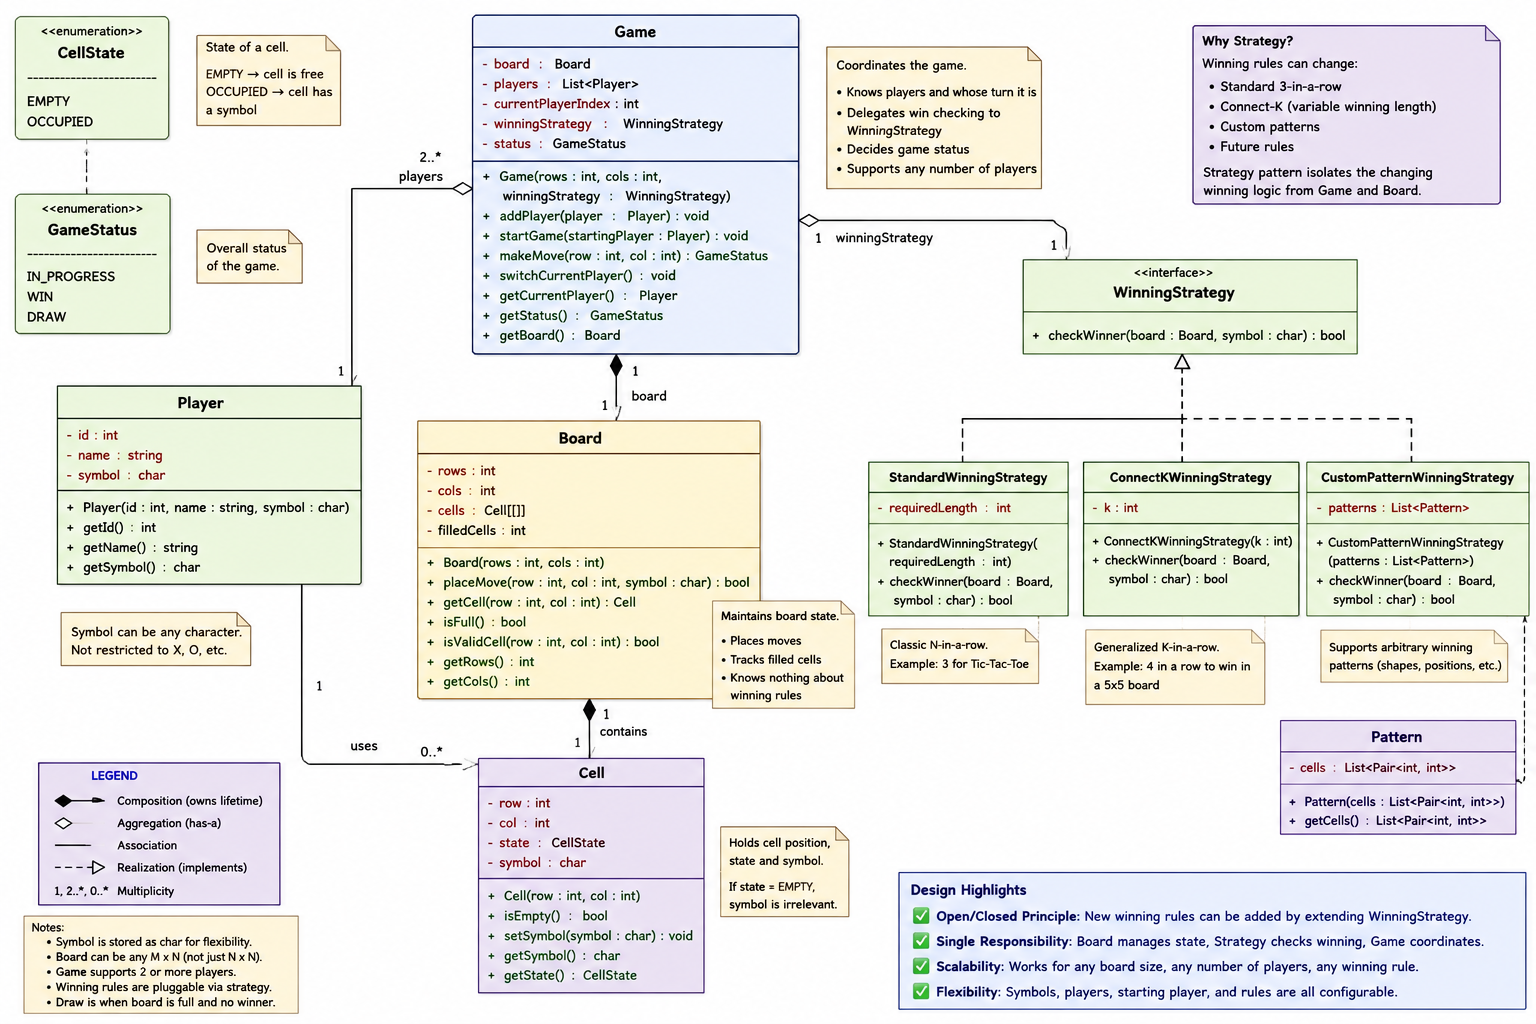
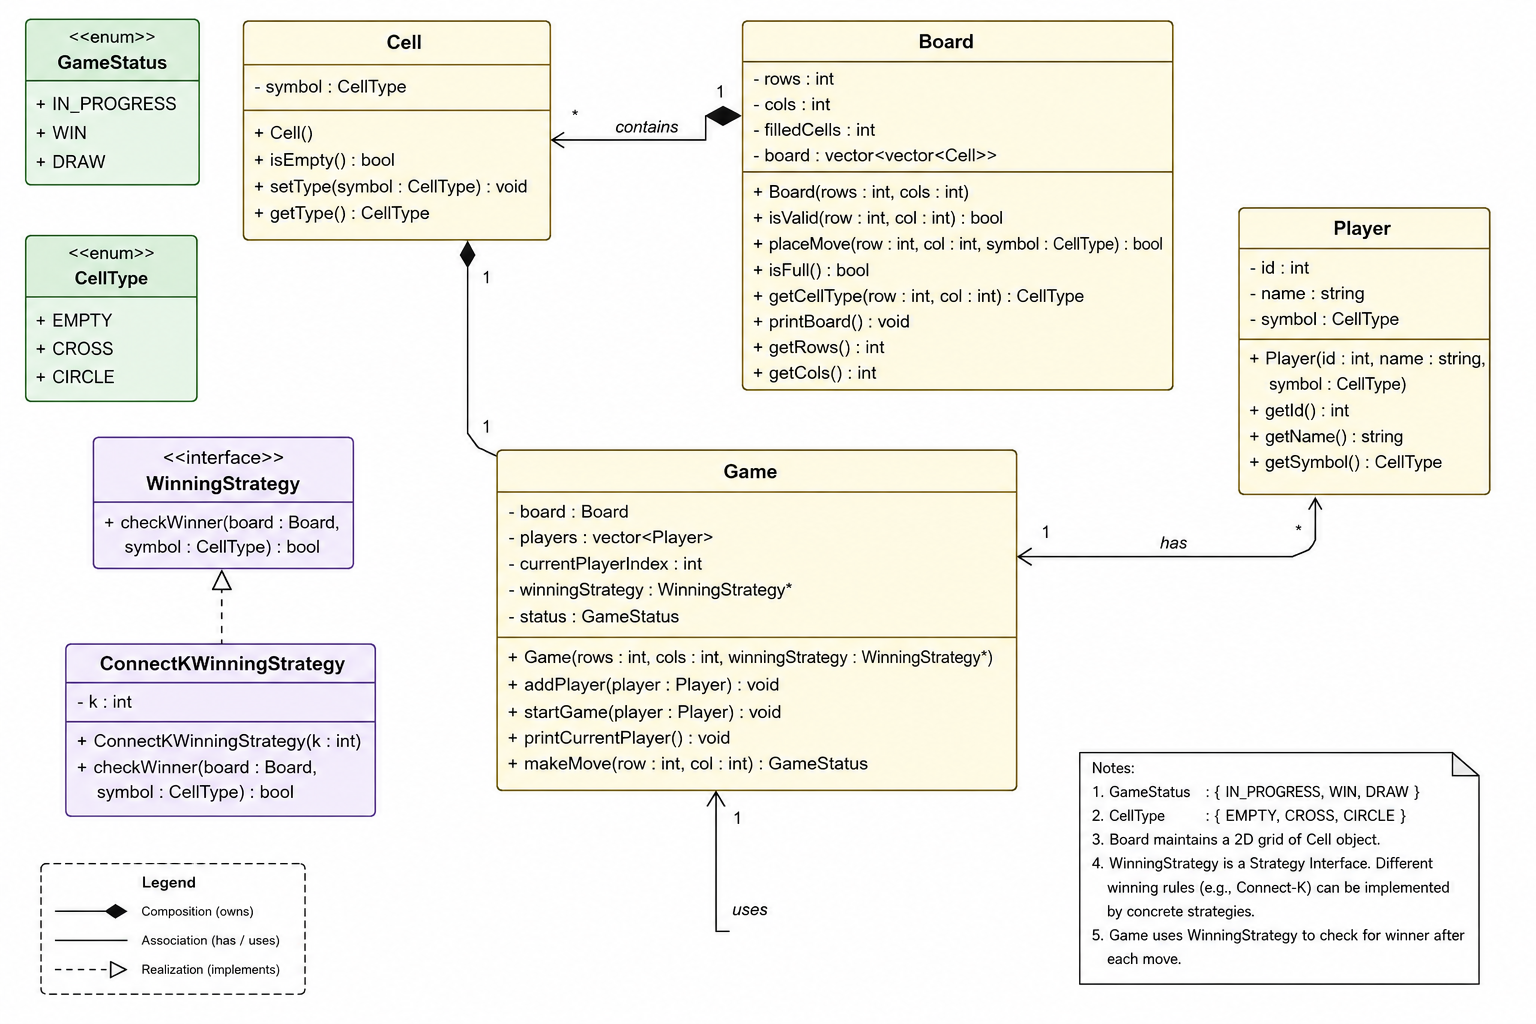
replace: Realistic UML of Tic-Tac-Toe and code

diff --git a/08. Tic-Tac-Toe/main.cpp b/08. Tic-Tac-Toe/main.cpp
@@ -2,22 +2,8 @@
 #include <vector>
 using namespace std;
 
-enum CellType { EMPTY, CROSS, CIRCLE };
 enum GameStatus { IN_PROGRESS, WIN, DRAW };
-
-class Player {
-private:
-    int id;
-    string name;
-    CellType symbol;
-
-public:
-    Player(int id, string name, CellType type) : id(id), name(name), symbol(type) {}
-
-    int getId() { return id; }
-    string getName() { return name; }
-    CellType getSymbol() { return symbol; }
-};
+enum CellType { EMPTY, CROSS, CIRCLE };
 
 class Cell {
 private:
@@ -32,60 +18,74 @@ public:
 
     void setType(CellType symbol) { this->symbol = symbol; }
     CellType getType() { return symbol; }
-};  
+};
 
 class Board {
 private:
     int rows, cols, filledCells;
-    vector<vector<Cell>> cells;
+    vector<vector<Cell>> board;
 
 public:
     Board(int rows, int cols) : rows(rows), cols(cols), filledCells(0) {
-        cells.resize(rows, vector<Cell>(cols));
+        board.resize(rows, vector<Cell>(cols));
     }
 
-    bool isValidCell(int row, int col) { return row >= 0 && row < rows && col >= 0 && col < cols; }
+    bool isValid(int row, int col) { 
+        return row >= 0 && row < rows && col >= 0 && col < cols;
+    }
 
     bool placeMove(int row, int col, CellType symbol) {
-        if (!isValidCell(row, col) || !cells[row][col].isEmpty()) return false;
-
-        cells[row][col].setType(symbol);
+        if(!isValid(row, col) || !board[row][col].isEmpty()) return false;
+        board[row][col].setType(symbol);
         filledCells++;
-
         return true;
     }
 
-    CellType getCellType(int row, int col) { 
-        return cells[row][col].getType(); 
+    bool isFull() {
+        return filledCells == (rows * cols);
     }
 
-    bool isFull() { 
-        return filledCells == rows * cols; 
+    CellType getCellType(int row, int col) { 
+        return board[row][col].getType(); 
+    }
+
+    void printBoard() {
+        for(int i = 0; i < rows; i++) {
+            for(int j = 0; j < cols; j++) {
+                CellType type = board[i][j].getType();
+
+                if(type == EMPTY) cout << '.';
+                else if(type == CROSS) cout << 'X';
+                else cout << 'O';
+
+                if(j != cols-1) cout << " | ";
+            }
+            cout << endl;
+        }
+        cout << endl;
     }
 
     int getRows() { return rows; }
     int getCols() { return cols; }
+};
 
-    void printBoard() {
-        for (int i = 0; i < rows; i++) {
-            for (int j = 0; j < cols; j++) {
-                CellType type = cells[i][j].getType();
+class Player {
+private:
+    int id;
+    string name;
+    CellType symbol;
 
-                if (type == EMPTY) cout << '.';
-                else if (type == CROSS) cout << 'X';
-                else cout << 'O';
+public:
+    Player(int id, string name, CellType symbol) : id(id), name(name), symbol(symbol) {}
 
-                if (j != cols - 1) cout << " | ";
-            }
-            cout << '\n';
-        }
-        cout << '\n';
-    }
+    int getId() { return id; }
+    string getName() { return name; }
+    CellType getSymbol() { return symbol; }
 };
 
 class WinningStrategy {
 public:
-    virtual bool checkWinner(Board& board, CellType symbol) = 0;
+    virtual bool checkWinner(Board &board, CellType symbol) = 0;
     virtual ~WinningStrategy() {}
 };
 
@@ -96,26 +96,25 @@ private:
 public:
     ConnectKWinningStrategy(int k) : k(k) {}
 
-    bool checkWinner(Board& board, CellType symbol) override {
+    bool checkWinner(Board &board, CellType symbol) override {
         int rows = board.getRows(), cols = board.getCols();
 
         vector<int> dr = {-1, -1, -1, 0, 0, 1, 1, 1};
         vector<int> dc = {-1, 0, 1, -1, 1, -1, 0, 1};
 
-        for (int r = 0; r < rows; r++) {
-            for (int c = 0; c < cols; c++) {
+        for(int r = 0; r < rows; r++) {
+            for(int c = 0; c < cols; c++) {
+                if(board.getCellType(r, c) != symbol) continue;
 
-                if (board.getCellType(r, c) != symbol) continue;
-
-                for (int d = 0; d < 8; d++) {
+                for(int d = 0; d < 8; d++) {
                     int nr = r + dr[d];
                     int nc = c + dc[d];
                     int count = 1;
 
-                    while (nr >= 0 && nr < rows && nc >= 0 && nc < cols && board.getCellType(nr, nc) == symbol) {
+                    while(nr >= 0 && nr < rows && nc >= 0 && nc < cols && board.getCellType(nr, nc) == symbol) {
                         count++;
 
-                        if (count >= k) return true;
+                        if(count >= k) return true;
 
                         nr += dr[d];
                         nc += dc[d];
@@ -137,17 +136,16 @@ private:
     GameStatus status;
 
 public:
-    Game(int rows, int cols, WinningStrategy* winningStrategy)
-        : board(rows, cols), currentPlayerIndex(-1),
-          winningStrategy(winningStrategy), status(IN_PROGRESS) {}
+    Game(int rows, int cols, WinningStrategy* winningStrategy) 
+        : board(rows, cols), currentPlayerIndex(-1), winningStrategy(winningStrategy), status(IN_PROGRESS) {}
 
     void addPlayer(Player player) {
         players.push_back(player);
     }
 
     void startGame(Player player) {
-        for (int i = 0; i < players.size(); i++) {
-            if (players[i].getId() == player.getId()) {
+        for(int i = 0; i < players.size(); i++) {
+            if(players[i].getId() == player.getId()) {
                 currentPlayerIndex = i;
                 return;
             }
@@ -159,26 +157,26 @@ public:
     }
 
     GameStatus makeMove(int row, int col) {
-        if (status != IN_PROGRESS || currentPlayerIndex == -1) return status;
+        if(status != IN_PROGRESS || currentPlayerIndex == -1) return status;
+        
+        Player &player = players[currentPlayerIndex];
 
-        Player& player = players[currentPlayerIndex];
-
-        if (!board.placeMove(row, col, player.getSymbol())) {
+        if(!board.placeMove(row, col, player.getSymbol())) {
             cout << "Invalid move. Try again." << endl;
             return status;
         }
 
         board.printBoard();
 
-        if (winningStrategy->checkWinner(board, player.getSymbol())) {
+        if(winningStrategy->checkWinner(board, player.getSymbol())) {
             status = WIN;
             cout << player.getName() << " wins!" << endl;
             return status;
         }
 
-        if (board.isFull()) {
+        if(board.isFull()) {
             status = DRAW;
-            cout << "Game is a draw!" << endl;
+            cout << "Game is draw!" << endl;
             return status;
         }
 
@@ -192,8 +190,8 @@ int main() {
     ConnectKWinningStrategy strategy(3);
     Game game(3, 3, &strategy);
 
-    Player p1(1, "Player 1", CROSS);
-    Player p2(2, "Player 2", CIRCLE);
+    Player p1(1, "Chaitanya", CROSS);
+    Player p2(2, "Karan", CIRCLE);
 
     game.addPlayer(p1);
     game.addPlayer(p2);
@@ -201,39 +199,15 @@ int main() {
     game.startGame(p1);
 
     int row, col;
-
-    while (true) {
+    while(true) {
         game.printCurrentPlayer();
 
         cout << "Enter row and column: ";
         cin >> row >> col;
 
         GameStatus status = game.makeMove(row, col);
-
-        if (status == WIN || status == DRAW) break;
+        if(status == WIN || status == DRAW) break;
     }
 
     return 0;
 }
-
-// int main() {
-//     ConnectKWinningStrategy strategy(3);
-
-//     Game game(3, 3, &strategy);
-
-//     Player p1(1, "Player 1", CROSS);
-//     Player p2(2, "Player 2", CIRCLE);
-
-//     game.addPlayer(p1);
-//     game.addPlayer(p2);
-
-//     game.startGame(p1);
-
-//     game.makeMove(0, 0);
-//     game.makeMove(1, 0);
-//     game.makeMove(0, 1);
-//     game.makeMove(1, 1);
-//     game.makeMove(0, 2);
-
-//     return 0;
-// }
